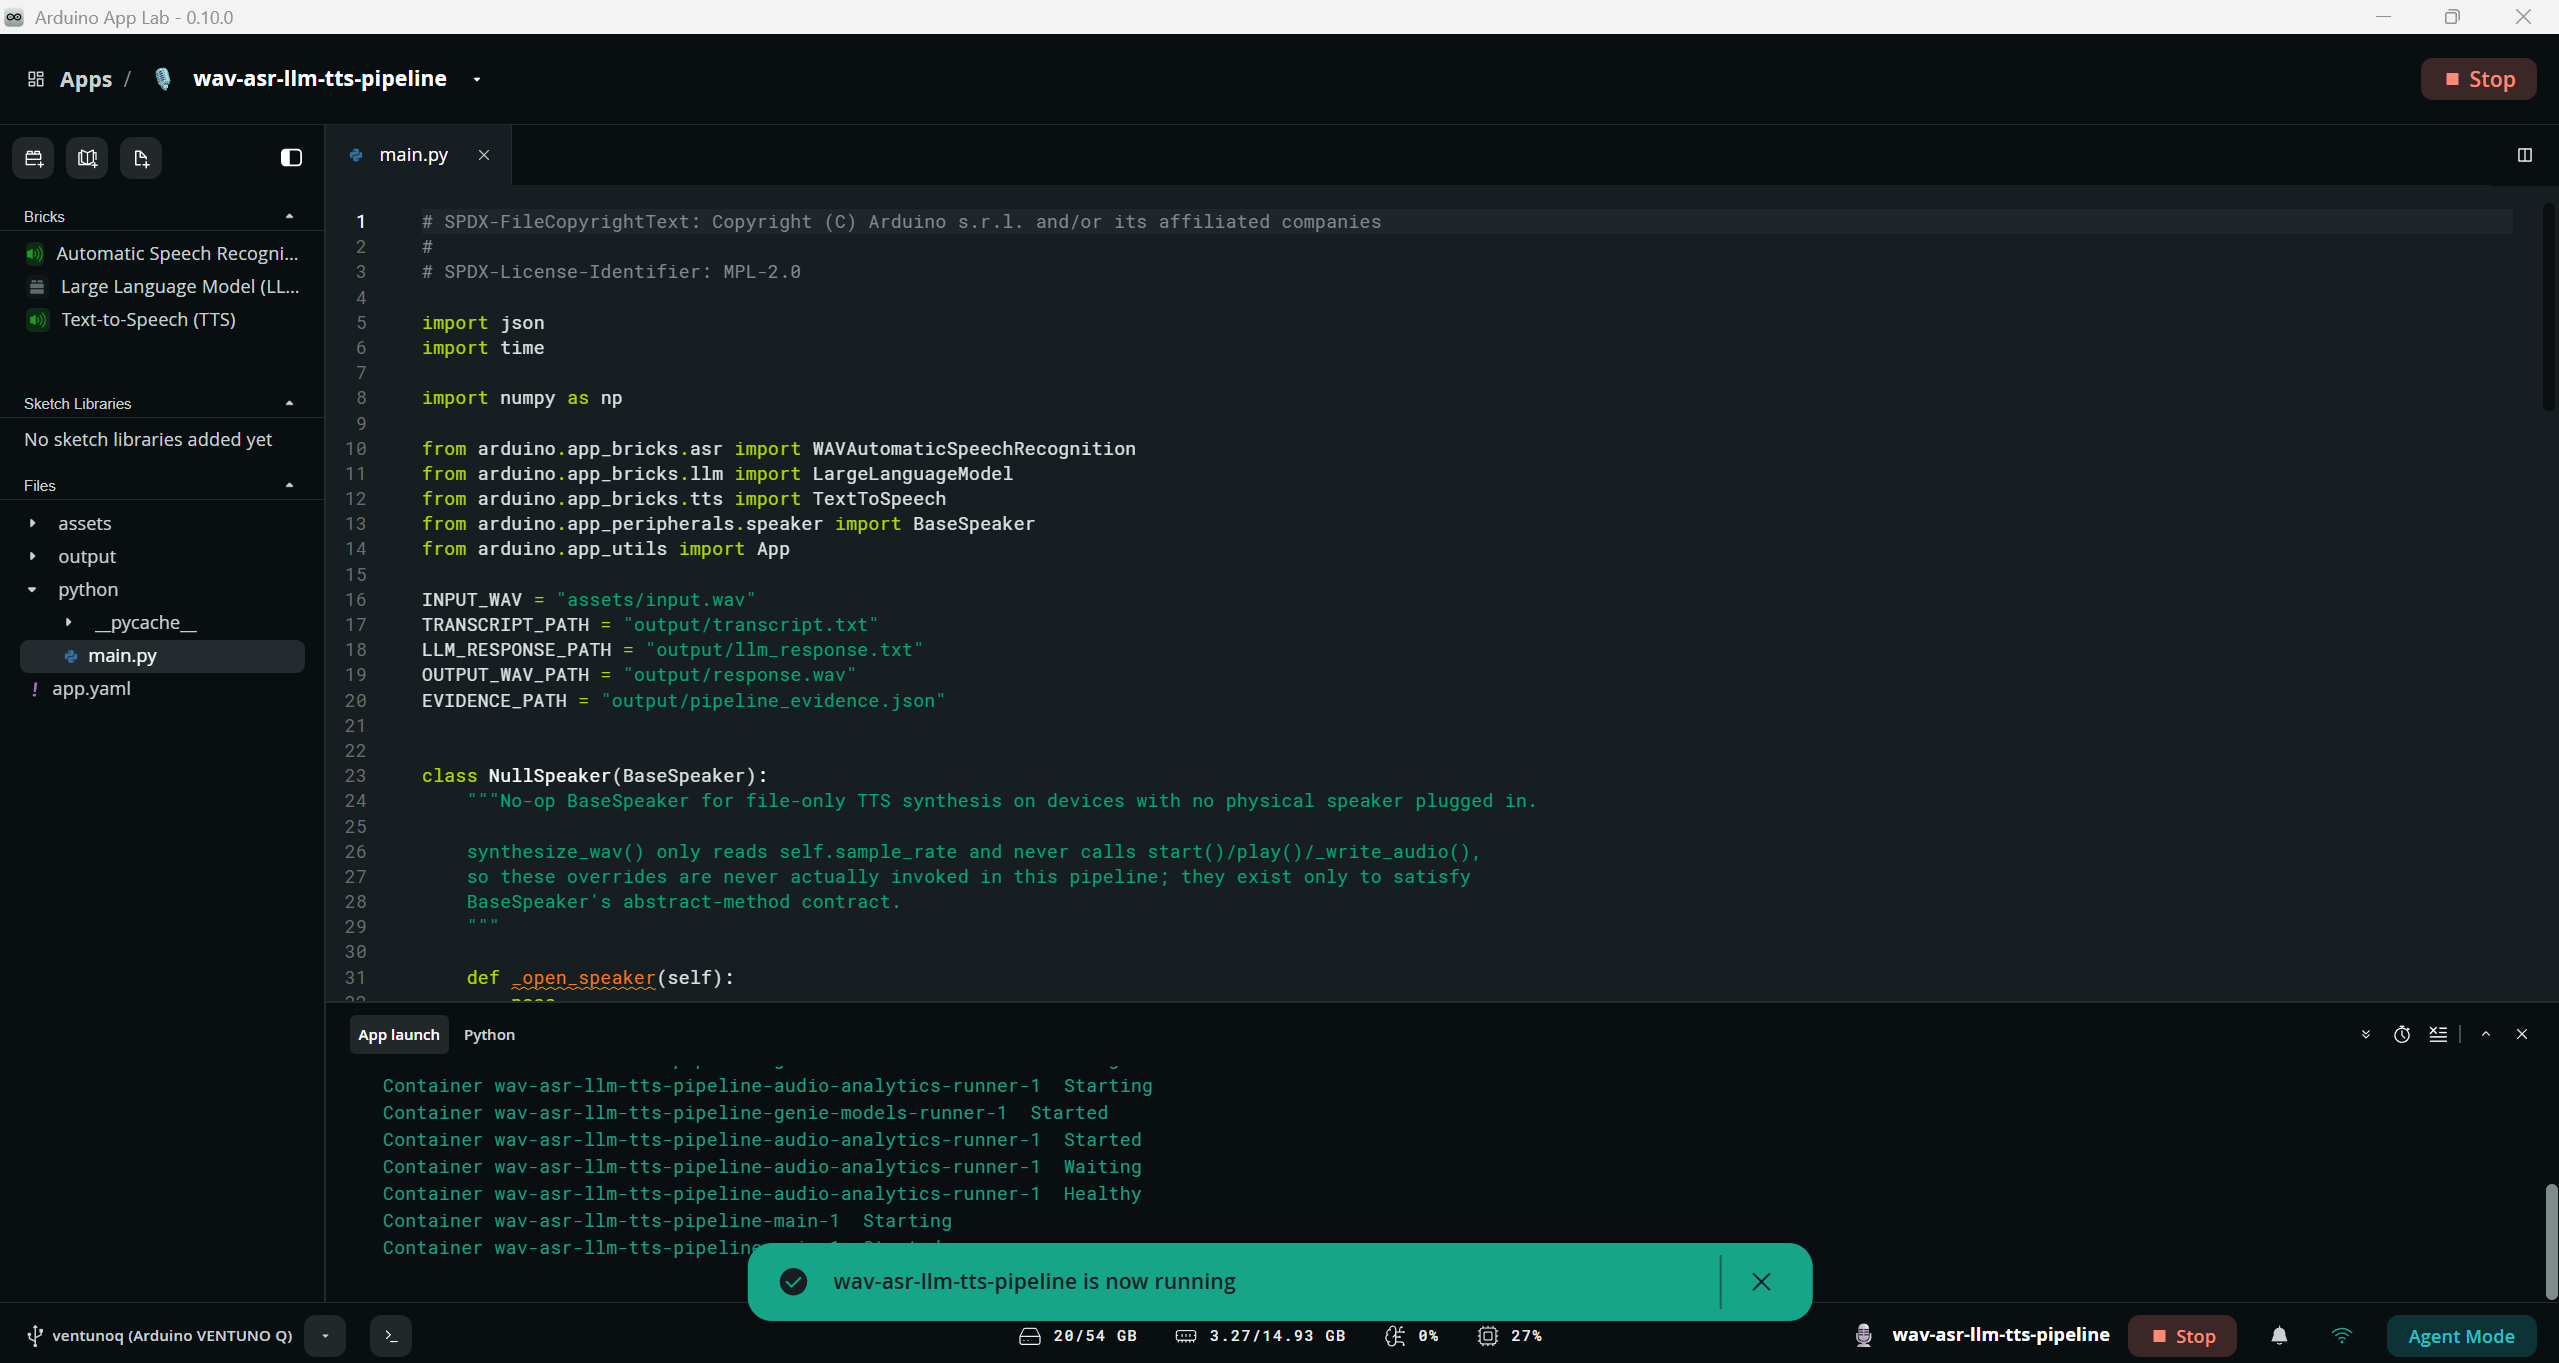
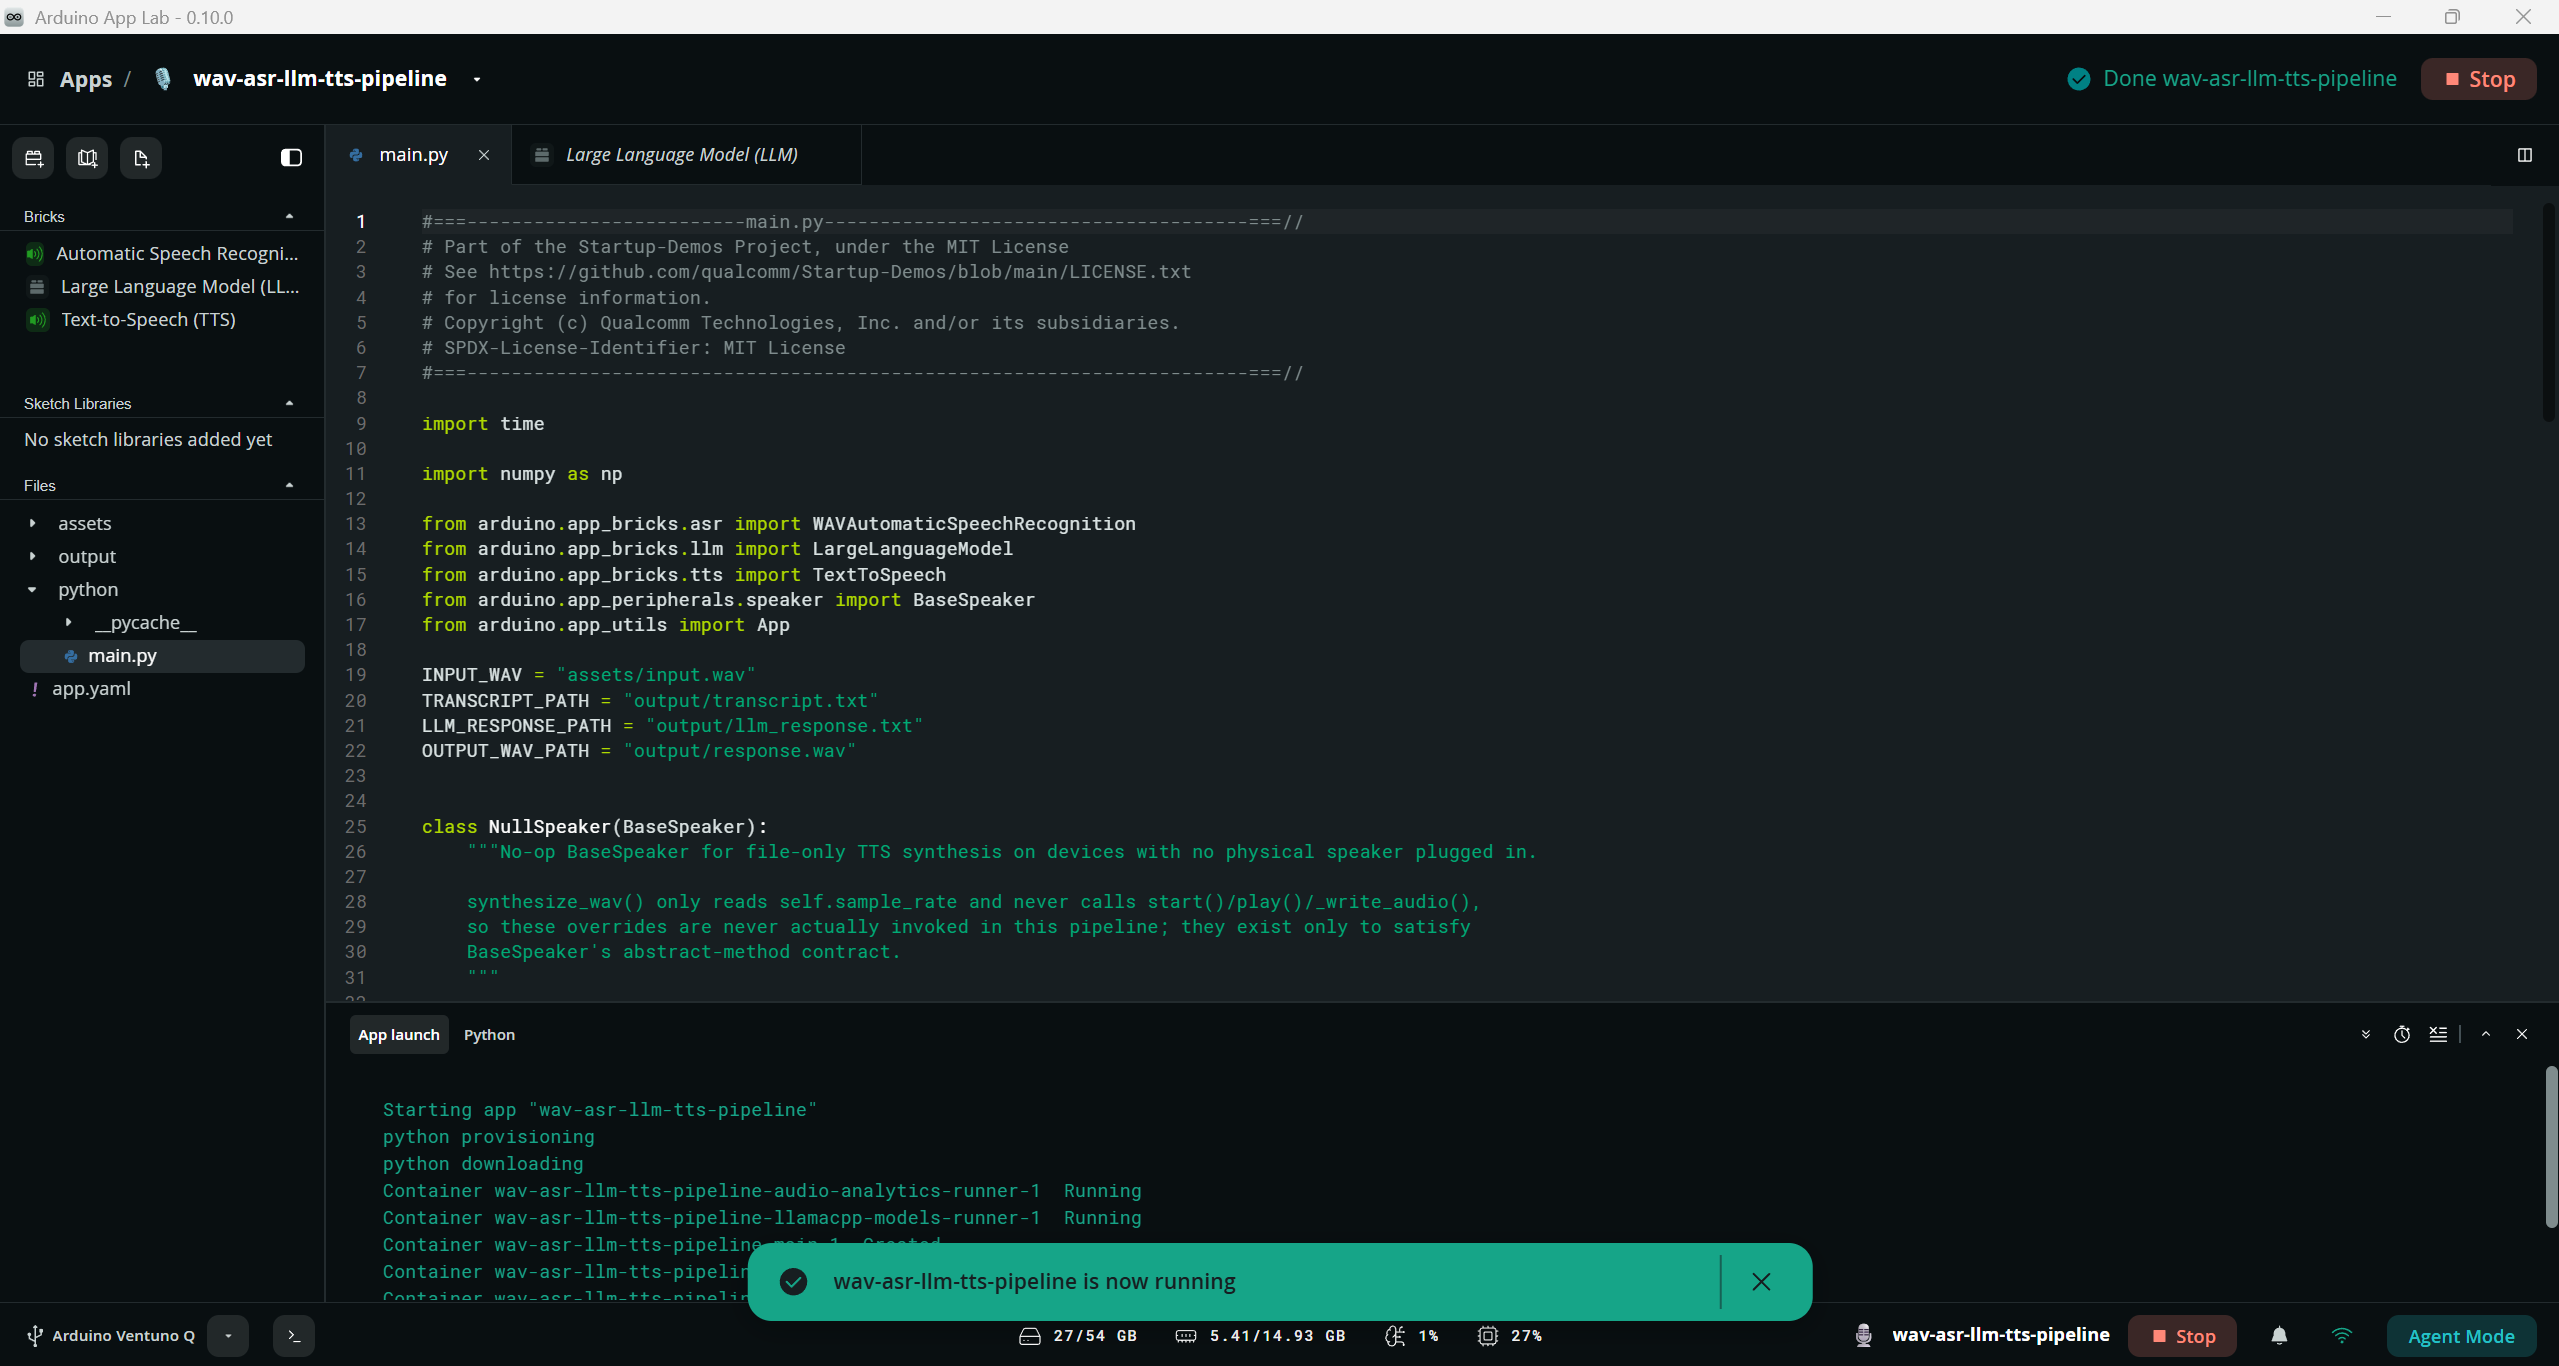
fix(wav-asr-llm-tts-pipeline): swap LLM model from Qwen3-4B to Gemma 4 E2B
Switch the arduino:llm Brick from genie:qwen3_4b_instruct_2507 (Qualcomm AI Hub/NPU) to llamacpp:gemma-4-E2B_q4_0-it (Hugging Face/llama.cpp CPU backend), re-validated end-to-end on-device.

diff --git a/GenAI/IoT-Robotics/WAV_ASR_LLM_TTS_Pipeline/python/main.py b/GenAI/IoT-Robotics/WAV_ASR_LLM_TTS_Pipeline/python/main.py
@@ -55,7 +55,7 @@ with open(TRANSCRIPT_PATH, "w") as f:
     f.write(transcript)
 
 print("PIPELINE_STAGE: LLM_START")
-llm = LargeLanguageModel(model="genie:qwen3_4b_instruct_2507")
+llm = LargeLanguageModel(model="llamacpp:gemma-4-E2B_q4_0-it")
 prompt = f"Reply in one short sentence to this transcribed voice message: {transcript}"
 t2 = time.time()
 llm_response = llm.chat(prompt)

diff --git a/GenAI/IoT-Robotics/WAV_ASR_LLM_TTS_Pipeline/README.md b/GenAI/IoT-Robotics/WAV_ASR_LLM_TTS_Pipeline/README.md
@@ -38,7 +38,7 @@ This sample demonstrates a fully on-device, offline speech-in / speech-out pipel
 | Brick | Model |
 |---|---|
 | `arduino:asr` | `whisper-small-quantized` |
-| `arduino:llm` | `genie:qwen3_4b_instruct_2507` |
+| `arduino:llm` | `llamacpp:gemma-4-E2B_q4_0-it` |
 | `arduino:tts` | `melo-tts-en` |
 
 There is no command-line or API path for installing a model — install them through the App Lab GUI. If the AI Models list appears empty, restart Arduino App Lab; the models will then show as installed. `app.yaml` declares the models this app expects; App Lab reports a missing-model error at `app start` if any of them are not yet installed.
@@ -48,7 +48,7 @@ There is no command-line or API path for installing a model — install them thr
 ```mermaid
 flowchart LR
     A["assets/input.wav"] --> B["arduino:asr Brick<br/>whisper-small-quantized"]
-    B -->|transcript| C["arduino:llm Brick<br/>genie:qwen3_4b_instruct_2507"]
+    B -->|transcript| C["arduino:llm Brick<br/>llamacpp:gemma-4-E2B_q4_0-it"]
     C -->|reply| D["arduino:tts Brick<br/>melo-tts-en"]
     D -->|WAV bytes| E["output/response.wav"]
 ```
@@ -109,7 +109,7 @@ This sample uses three ready-made models from the Arduino App Lab Bricks catalog
 1. Launch Arduino App Lab (version 0.10.0 — see [4.2 Setting Up Arduino App Lab](#42-setting-up-arduino-app-lab)).
 2. Open the Brick for each model listed in [Requirements](#2-requirements) (`arduino:asr`, `arduino:llm`, `arduino:tts`).
 3. Sign in with your Edge Impulse account when prompted.
-4. On the Brick's AI Models page, locate the required model (`whisper-small-quantized`, `genie:qwen3_4b_instruct_2507`, `melo-tts-en`).
+4. On the Brick's AI Models page, locate the required model (`whisper-small-quantized`, `llamacpp:gemma-4-E2B_q4_0-it`, `melo-tts-en`).
 5. Download/install the model through App Lab.
 6. Confirm the model's status shows as installed before continuing.
 7. Repeat for all three Bricks, then proceed to [Run](#5-run).
@@ -119,9 +119,9 @@ This sample uses three ready-made models from the Arduino App Lab Bricks catalog
 
 *`arduino:asr` Brick's AI Models page in Arduino App Lab 0.10.0, showing `Whisper Small (quantized)` marked as Installed.*
 
-![arduino:llm Brick AI Models page showing Qwen 3-4B Instruct installed](images/arduino_bricks_models.png)
+![arduino:llm Brick AI Models page showing Gemma 4 E2B installed](images/arduino_bricks_models_llm_gemma4.png)
 
-*`arduino:llm` Brick's AI Models page in Arduino App Lab 0.10.0, showing `Qwen 3-4B Instruct` marked as Installed.*
+*`arduino:llm` Brick's AI Models page in Arduino App Lab 0.10.0, showing `Gemma 4 E2B` marked as Installed.*
 
 ![arduino:tts Brick AI Models page showing Melo TTS (English) installed](images/arduino_bricks_models_installed_tts.png)
 
@@ -165,6 +165,6 @@ arduino-app-cli app start /home/arduino/ArduinoApps/wav-asr-llm-tts-pipeline -v
 |---|---|---|
 | **Input Speech** | `assets/input.wav` | "Hello, this is a test of the Arduino Speech Recognition Brick." |
 | **ASR Transcript** | `output/transcript.txt` (`arduino:asr`, `whisper-small-quantized`) | "Hello, this is a test of the Arduino Speech Recognition Brick." |
-| **LLM Prompt** | sent to `arduino:llm` (`genie:qwen3_4b_instruct_2507`) | "Reply in one short sentence to this transcribed voice message: Hello, this is a test of the Arduino Speech Recognition Brick." |
-| **LLM Response** | `output/llm_response.txt` | "Hello, this is a successful test of the Arduino Speech Recognition Brick." |
+| **LLM Prompt** | sent to `arduino:llm` (`llamacpp:gemma-4-E2B_q4_0-it`) | "Reply in one short sentence to this transcribed voice message: Hello, this is a test of the Arduino Speech Recognition Brick." |
+| **LLM Response** | `output/llm_response.txt` | "That sounds like a test for the Arduino Speech Recognition Brick." |
 | **Output WAV** | `output/response.wav` (`arduino:tts`, `melo-tts-en`) | Synthesized speech of the LLM Response above — RIFF/WAVE, PCM 16-bit, mono, 44100 Hz |
